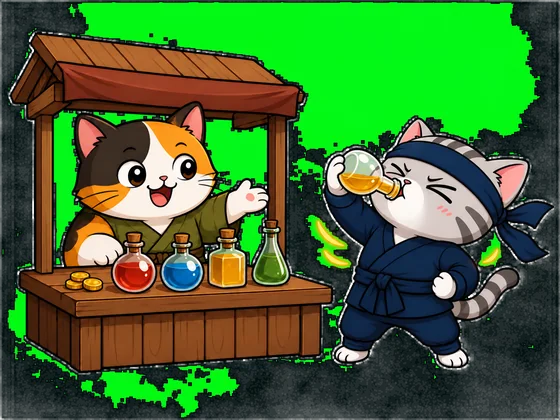
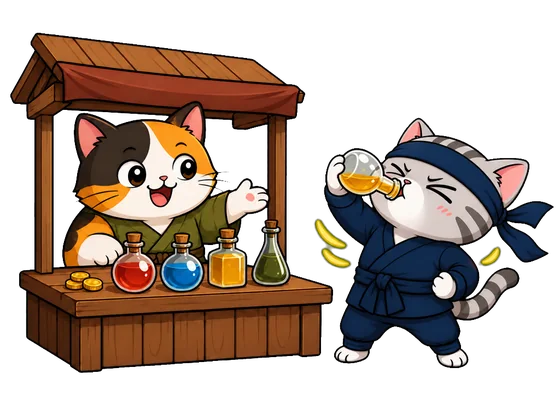
鐵砂衣拿掉扣血；去背失敗改成會當場喊出來
**鐵砂衣**（使用者 2026-09-11：「不該扣血，只有好處就好，目前的每回合留下 6 蜷縮
也不太過分」）：拿掉開戰失去 4 點生命，只留「回合結束最多留 6 點蜷縮」。

這件事 2026-09-05 的全面體檢其實就點名過、一直沒動：一局約 30 場戰鬥＝−120 血，
是打盹（22 血）的五倍多，而同池的守護符留 8 點還沒有任何代價——同價買劣化品。

它是**唯一**用開戰扣血的秘寶，拿掉之後 `effects.ts` 那道「秘寶的代價至少留 1 血」
的護欄就沒人在用了。護欄留著（下一件有代價的秘寶會再走同一條），但兩條綁在
鐵砂衣上的測試改成**直接驗效果本身**——不然它們會變成「測一件不存在的東西」，
哪天護欄被拿掉也沒人發現。另外補一條「目前沒有任何秘寶帶開戰扣血」，
哪天加回來會提醒把測試改回用真的秘寶跑。

**去背失敗不再靜靜過去。** 使用者回報「賣藥的三花貓選完的圖綠色沒去掉」。
病根：`add_event_art.py` 預設用牌面專用的寬鬆門檻（`CARD_SOFT=232`／`CARD_HARD=248`），
那張圖的背景綠度是 234——卡在兩個門檻中間，只被去掉兩成透明度。
門檻本身沒壞（牌面那批需要寬鬆的），真正的問題是**失敗完全不出聲**：
照樣印成功、照樣寫進 manifest、測試全過，只有玩家看得到一片綠。

加一道事後檢查：去完背量殘留的綠，超過 3% 就自己改用嚴格門檻重做，還是不行就大聲警告。
掃過全部事件圖，十張背景綠度低於門檻，全部重做——現在**沒有一張殘留超過 1%**。
綠色藥水瓶那種本來就該留的也沒被吃掉（判準門檻放在 60，畫上去的綠多半在那之下）。

654 測綠、首載 99.6%。

diff --git a/tests/engine/sequel_events.test.ts b/tests/engine/sequel_events.test.ts
@@ -2,6 +2,8 @@
 import { describe, expect, it } from 'vitest';
 import { eventById, events } from '../../src/content/events';
 import { relicById } from '../../src/content/relics';
+import { applyEffects } from '../../src/engine/effects';
+import { startCombat } from '../../src/engine/combat';
 import { generateMap } from '../../src/engine/map';
 import { applyRunEffects, beginCombat, newRun, takeRelic, BOSS_PREFIXES } from '../../src/engine/run';
 import { Rng, seedFromString } from '../../src/engine/rng';
@@ -63,15 +65,44 @@ describe('關主隨機前綴', () => {
 });
 
 describe('代價秘寶', () => {
-  it('鐵砂衣：開戰扣 4 點但不會打死球球（血 3 進場剩 1），而且有紀錄（稽核 2026-09-04 高 1）', () => {
-    const run = newRun('vest'); takeRelic(run, 'iron_sand_vest'); run.hp = 3;
-    const cs = beginCombat(run, 'wood_dummy');
-    expect(cs.phase).toBe('player');
-    expect(cs.player.hp).toBe(1);
-    expect(cs.log.some((l) => l.includes('秘寶的代價'))).toBe(true);
-    const run2 = newRun('vest2'); takeRelic(run2, 'iron_sand_vest'); run2.hp = 1;
-    const cs2 = beginCombat(run2, 'wood_dummy');
+  /*
+   * 「秘寶的代價不會把球球打死」這道護欄（稽核 2026-09-04 高 1）。
+   *
+   * 2026-09-11 起**沒有任何秘寶在用開戰扣血**——鐵砂衣的那筆被拿掉了
+   *（使用者：「不該扣血，只有好處就好」）。但護欄要留著：`selfDamage` 這個效果
+   * 還在，下一件有代價的秘寶會再走同一條路。
+   * 所以測試從「用鐵砂衣走一遍」改成**直接驗效果本身**，不然這條會變成
+   * 「測一件不存在的東西」，哪天護欄被拿掉也沒人發現。
+   */
+  it('秘寶來源的自傷至少留 1 血，而且留一行紀錄（稽核 2026-09-04 高 1）', () => {
+    const cs = startCombat({ hp: 3, maxHp: 70, deck: [], relics: [], potions: [],
+      encounterId: 'wood_dummy', rng: new Rng(seedFromString('cost')) });
+    applyEffects(cs, [{ kind: 'selfDamage', amount: 4 }], { source: 'relic' });
+    expect(cs.player.hp, '扣不死').toBe(1);
+    expect(cs.phase, '也不會判成敗北').toBe('player');
+    expect(cs.log.some((l) => l.includes('秘寶的代價')), '代價要講清楚').toBe(true);
+
+    // 只剩 1 滴血時完全不扣（`amount <= 0` 就直接返回），也不該多印一行
+    const cs2 = startCombat({ hp: 1, maxHp: 70, deck: [], relics: [], potions: [],
+      encounterId: 'wood_dummy', rng: new Rng(seedFromString('cost2')) });
+    const before = cs2.log.length;
+    applyEffects(cs2, [{ kind: 'selfDamage', amount: 4 }], { source: 'relic' });
     expect(cs2.player.hp).toBe(1);
+    expect(cs2.log.length, '什麼都沒發生就不要印').toBe(before);
+  });
+
+  it('**牌**打出來的自傷照扣（護欄只保護秘寶的代價，不是萬用免死金牌）', () => {
+    const cs = startCombat({ hp: 3, maxHp: 70, deck: [], relics: [], potions: [],
+      encounterId: 'wood_dummy', rng: new Rng(seedFromString('cardcost')) });
+    applyEffects(cs, [{ kind: 'selfDamage', amount: 4 }], { source: 'card' });
+    expect(cs.player.hp, '鐵頭功那種自己打自己的，該死就是會死').toBe(0);
+  });
+
+  it('鐵砂衣只剩好處：留 6 點蜷縮，沒有任何代價', () => {
+    const vest = relicById['iron_sand_vest'];
+    expect(vest?.hooks.blockKeep).toBe(6);
+    expect(vest?.hooks.combatStart, '開戰不該再有任何代價').toBeUndefined();
+    expect(vest?.text).not.toContain('失去');
   });
   it('血契短刀：開戰 +3 爪力、最大生命 −12；貪吃錢袋：店價漲三成', () => {
     const run = newRun('costly');

diff --git a/tests/engine/selfdamage.test.ts b/tests/engine/selfdamage.test.ts
@@ -55,11 +55,16 @@ describe('自傷先扣蜷縮', () => {
     }
   });
 
-  it('鐵砂衣的開場代價也走同一條，而且不會把球球打死', () => {
-    // 開戰第一拍蜷縮是 0，所以它的代價實質不變——但規則要一致
-    const iron = Object.values(relicById).find((r) => r.hooks.combatStart?.some((f) => f.kind === 'selfDamage'));
-    expect(iron, '應該有一件開場自傷的秘寶').toBeTruthy();
-    const fx = iron!.hooks.combatStart!.find((f) => f.kind === 'selfDamage')!;
+  /*
+   * 秘寶來源的自傷走同一條規則（先扣蜷縮、至少留 1 血）。
+   *
+   * 原本這條是拿**鐵砂衣**來跑的，2026-09-11 它的開戰扣血被拿掉了
+   *（使用者：「不該扣血，只有好處就好」），現在沒有任何秘寶在走這條路。
+   * 改成直接用效果本身驗——護欄還在，下一件有代價的秘寶會再用到，
+   * 而且這樣不會變成「測一件不存在的東西」。
+   */
+  it('秘寶來源的自傷也走同一條，而且不會把球球打死', () => {
+    const fx = { kind: 'selfDamage', amount: 4 } as const;
     const cs = fight();
     cs.player.block = 99;
     applyEffects(cs, [fx], { source: 'relic' });
@@ -69,5 +74,10 @@ describe('自傷先扣蜷縮', () => {
     cs2.player.hp = 2; cs2.player.block = 0;
     applyEffects(cs2, [fx], { source: 'relic' });
     expect(cs2.player.hp, '秘寶的代價至少留 1 血').toBeGreaterThanOrEqual(1);
+  });
+
+  it('目前沒有任何秘寶帶開戰扣血（鐵砂衣那筆拿掉了）', () => {
+    const costly = Object.values(relicById).filter((r) => r.hooks.combatStart?.some((f) => f.kind === 'selfDamage'));
+    expect(costly.map((r) => r.name), '哪天又加回來，上面那條要改回用真的秘寶跑').toEqual([]);
   });
 });

diff --git a/src/content/relics.ts b/src/content/relics.ts
@@ -86,8 +86,11 @@ export const relics: RelicDef[] = [
     hooks: { combatStart: [{ kind: 'status', name: '爪力', amount: 3, target: 'self' }], maxHp: -12 } },
   { id: 'miasma_charm', name: '魔氣護符', pool: '大魔物', text: '每回合多 1 顆飯糰；每場戰鬥開始帶 2 層炸毛（獲得的蜷縮只剩 0.75 倍）。', art: 'codex/relic_miasma_charm', price: 240,
     hooks: { energyPerTurn: 1, combatStart: [{ kind: 'status', name: '炸毛', amount: 2, target: 'self' }] } },
-  { id: 'iron_sand_vest', name: '鐵砂衣', pool: '常見', text: '回合結束最多留 6 點蜷縮到下一回合；每場戰鬥開始失去 4 點生命。', art: 'codex/relic_iron_sand_vest', price: 140,
-    hooks: { blockKeep: 6, combatStart: [{ kind: 'selfDamage', amount: 4 }] } },
+  // 開戰扣 4 點生命拿掉了（使用者 2026-09-11：「不該扣血，只有好處就好，
+  // 目前的每回合留下 6 蜷縮也不太過分」）。留蜷縮本來就是慢熱型的加成——
+  // 前兩回合幾乎沒感覺，要堆起來才有用；再收一筆開場血當代價，對一件常見池的秘寶太重
+  { id: 'iron_sand_vest', name: '鐵砂衣', pool: '常見', text: '回合結束最多留 6 點蜷縮到下一回合。', art: 'codex/relic_iron_sand_vest', price: 140,
+    hooks: { blockKeep: 6 } },
   { id: 'glutton_purse', name: '貪吃錢袋', pool: '常見', text: '每場打贏多拿 25 條小魚乾；罐頭鋪的價格漲三成。', art: 'codex/relic_glutton_purse', price: 120,
     hooks: { winGold: 25, shopDiscount: 1.3 } },
   { id: 'black_cat_mask', name: '黑貓面具', pool: '大魔物', text: '每場戰鬥第一回合多 2 顆飯糰；開戰帶 1 層懶洋洋（造成的傷害只剩 0.75 倍）。', art: 'codex/relic_black_cat_mask', price: 230,

diff --git a/src/engine/actions.ts b/src/engine/actions.ts
@@ -32,8 +32,9 @@ const RELIC_LOG = '秘寶發動：';
  * 玩家不知道是誰做的，久了會以為那件秘寶根本沒作用（使用者 2026-09-10 點名要補回饋）。
  * 每個掛鉤**真的做了事**的那一刻叫一次；純粹一直生效、沒有「發動」時刻可言的不叫。
  *
- * 注意有的效果自己也會印一行（鐵砂衣的開場自傷走 `selfDamage`，`effects.ts` 對秘寶來源的自傷
+ * 注意有的效果自己也會印一行（走 `selfDamage` 的代價型秘寶，`effects.ts` 對秘寶來源的自傷
  * 會印「秘寶的代價：失去 N 點生命」），那種就會是兩行——那是對的，代價本來就該講清楚。
+ * （2026-09-11 起沒有秘寶在用那條路：鐵砂衣的扣血被拿掉了。護欄與這段說明都留著備用。）
  *
  * **連著發動的併成一行**（稽核 2026-09-10 中-4）：紀錄框只顯示最後四行。
  * 開場帶六件秘寶時實測九行紀錄裡看得到的四行全是「發動」，三隻魔物的開場台詞一句都不剩；

diff --git a/src/engine/effects.ts b/src/engine/effects.ts
@@ -86,7 +86,13 @@ export function applyOne(cs: CombatState, fx: Effect, ctx: EffectCtx, queue: Eff
       return false;
     }
     case 'selfDamage': {
-      // 秘寶的代價（鐵砂衣開戰扣血）不能把球球直接打死，至少留 1 血，而且要留一行紀錄（稽核 2026-09-04 高 1）
+      /*
+       * 秘寶的代價不能把球球直接打死，至少留 1 血，而且要留一行紀錄（稽核 2026-09-04 高 1）。
+       *
+       * **2026-09-11 起沒有任何秘寶在走這條路**——鐵砂衣的開戰扣血被拿掉了
+       *（使用者：「不該扣血，只有好處就好」）。護欄留著：下一件有代價的秘寶會再用到，
+       * 而且 `tests/engine/sequel_events.test.ts` 改成直接驗這個效果，不再綁在鐵砂衣上。
+       */
       const amount = ctx.source === 'relic' ? Math.min(fx.amount, Math.max(0, p.hp - 1)) : fx.amount;
       if (amount <= 0) return false;
       /**

diff --git a/tools/add_event_art.py b/tools/add_event_art.py
@@ -42,6 +42,27 @@ def despill_all(im: Image.Image) -> Image.Image:
     return im
 
 
+
+def green_left(im: Image.Image) -> float:
+    """去完背之後還有幾成的可見像素是綠的（百分比）。
+
+    判準跟 `key_out` 同一套（綠減去紅藍的最大值），門檻放寬到 60——
+    那個程度的綠人眼一看就知道是沒去乾淨，不是畫上去的綠色物件。
+    綠色的藥水瓶、草叢那種本來就該留著的，綠度多半在 60 以下。
+    """
+    px = im.convert("RGBA").load()
+    vis = green = 0
+    for y in range(im.height):
+        for x in range(im.width):
+            r, g, b, a = px[x, y]
+            if a <= 16:
+                continue
+            vis += 1
+            if g - max(r, b) > 60:
+                green += 1
+    return green / vis * 100 if vis else 0.0
+
+
 def main() -> None:
     ap = argparse.ArgumentParser()
     ap.add_argument("names", nargs="*", help="event_<事件編號>.png")
@@ -68,6 +89,15 @@ def main() -> None:
                  else key_out(Image.open(src), CARD_SOFT, CARD_HARD, CARD_BAND, crop=False))
         if args.strict:
             keyed = despill_all(keyed)
+        # 去背失敗要當場喊出來（2026-09-11）。預設的牌面門檻（232／248）對背景綠度
+        # 只有 23x 的圖會漏掉一大片，而且**完全不出聲**——照樣印成功、照樣寫進 manifest，
+        # 只有玩家看得到一片綠。量一下殘留，太多就自己改用嚴格門檻重做一次
+        if not args.strict and green_left(keyed) > 3.0:
+            print(f"  ⚠ {name} 去背沒乾淨（背景綠度偏低），改用嚴格門檻重做")
+            keyed = despill_all(key_out(Image.open(src), SOFT, HARD, CARD_BAND, crop=False))
+        left = green_left(keyed)
+        if left > 3.0:
+            print(f"  ⚠⚠ {name} 嚴格門檻也去不乾淨（還剩 {left:.1f}% 綠），請看一下這張圖")
         dst = OUT / "bg" / f"event_{eid}.webp"
         dst.parent.mkdir(parents=True, exist_ok=True)
         keyed.resize((560, 420), Image.LANCZOS).save(dst, "WEBP", quality=84, method=6)
